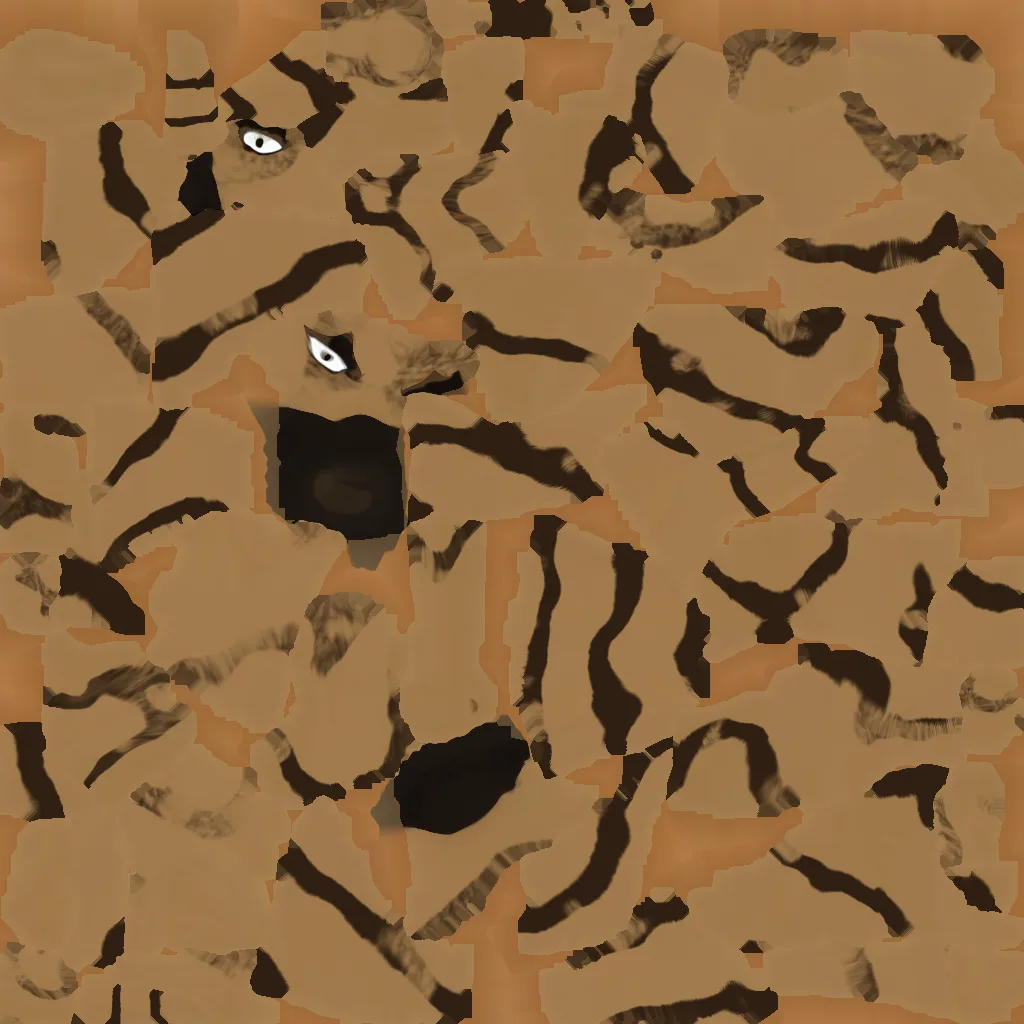
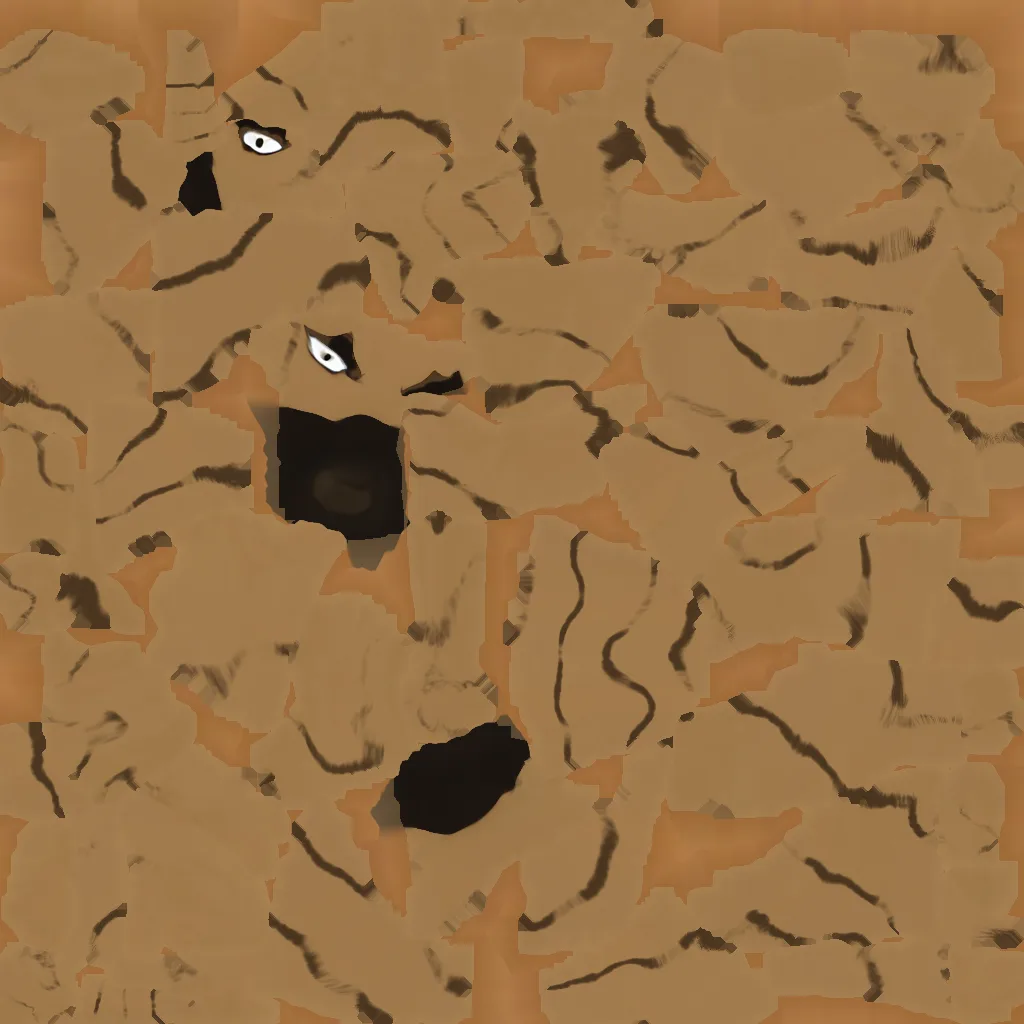
Looks v2: 8 + 8 rigged soldier variants (each a different base and coat)
Claude-Session: https://claude.ai/code/session_016HLENcW9gu6Sv4d15G8kND

diff --git a/weed-game/src/data/looks.js b/weed-game/src/data/looks.js
@@ -67,7 +67,57 @@ export const LOOKS = {
   dane_blue: { base: 'ken_auto', grade: { gradient: ['#25272c', '#5f6570'], chroma: 0.15 }, marks: [
     { type: 'chest', color: '#c9ccd2', w: 0.25, opacity: 0.8 }] },
   dane_brindle: { base: 'ken_auto', grade: { gradient: ['#1a1410', '#a07a4c'] }, marks: [
-    { type: 'stripes', color: '#2a1f17', blend: 'multiply', freq: 46, thick: 0.4, opacity: 0.85, head: 0.2 }] },
+    { type: 'stripes', color: '#2a1f17', blend: 'multiply', freq: 58, thick: 0.22, warp: 4.5, breakup: 0.45, opacity: 0.65, head: 0.2 }] },
+
+  // ======== geneeriset sotilaat: kukin eri pohjasta ja eri värityksellä ========
+  // liittolaiset (japanilaiset pystykorvat ja sekarotuiset)
+  spitz_red_cream: { base: 'gin_auto', grade: { gradient: ['#9c4a26', '#f0e0c6'] } },
+  spitz_black_tan: { base: 'tesshin_auto', grade: { gradient: ['#141211', '#b07a45'] } },
+  kai_red_brindle: { base: 'striped_b_rigged', grade: { gradient: ['#2a1a12', '#9a6a42'] } },
+  spitz_sesame: { base: 'weed_rigged', grade: { gradient: ['#5a4535', '#ece0cd'] } },
+  mutt_cream: { base: 'generic_auto', grade: { gradient: ['#6e5a45', '#e3d6c0'], chroma: 0.3 }, marks: [
+    { type: 'ears', color: '#b08458' }, { type: 'under', color: '#f2ebdf', opacity: 0.8 }] },
+  sighthound_grey: { base: 'rocket_rigged', grade: { gradient: ['#5a5c62', '#ebe8e2'], chroma: 0.3 } },
+  wolf_dark: { base: 'akame_auto', grade: { gradient: ['#1e1d1d', '#545150'], chroma: 0.3 }, marks: [
+    { type: 'under', color: '#8e8a84', opacity: 0.7 }] },
+  spaniel_liver: { base: 'smith_rigged', grade: { gradient: ['#4e2c19', '#f2ece2'] } },
+  // vihollisarmeija (punainen panta lisätään hahmossa)
+  mastiff_dark_brindle: { base: 'tobei_rigged', grade: { gradient: ['#120e0c', '#4e3d2e'] }, marks: [
+    { type: 'stripes', color: '#2a1f17', blend: 'multiply', freq: 52, thick: 0.24, warp: 4.5, breakup: 0.45, opacity: 0.6, head: 0.3 }] },
+  dane_merle: { base: 'hogen_rigged', grade: { gradient: ['#25272d', '#a4a8b0'], chroma: 0.25 }, marks: [
+    { type: 'patches', color: '#6a6e78', blend: 'multiply', scale: 6, r: 0.6, opacity: 0.9 }] },
+  shepherd_black: { base: 'john_auto', grade: { gradient: ['#0e0d0d', '#1f1d1c'] } },
+  mutt_black_white: { base: 'generic_auto', grade: { gradient: ['#121111', '#221f1e'] }, marks: [
+    { type: 'chest', color: '#ebe6dc', w: 0.45 }, { type: 'socks', color: '#ebe6dc', height: 0.12 },
+    { type: 'blaze', color: '#ebe6dc', width: 0.09, from: 0.2 }] },
+  lurcher_red: { base: 'rocket_rigged', grade: { gradient: ['#4a2a18', '#8e5c3c'] } },
+  spitz_dun_spotted: { base: 'tesshin_auto', grade: { gradient: ['#3a3530', '#b8ab98'], chroma: 0.4 } },
+  kai_black_brindle: { base: 'striped_b_rigged', grade: { gradient: ['#121212', '#5c5e60'], chroma: 0.2 } },
+};
+
+// Geneeriset joukkohahmot rigatuilla pohjilla (characters.js lisää nämä uusina hahmoina, galleriaryhmä group).
+const ENEMY_COLLAR = { type: 'collar', color: '#8a1d17' };
+const ally = (model, look, height, breed, bones, x = {}) => ({ name: 'Ōu warrior', kind: 'rigged', model, look, height, bones, breed, group: 'allies',
+  role: 'A warrior of the Ōu pack.', gait: 'trot', speed: 1.05, wag: 0.35, ...x });
+const enemy = (model, look, height, breed, bones, x = {}) => ({ name: 'Army soldier', kind: 'rigged', model, look, height, bones, breed, group: 'enemies',
+  role: 'A soldier of the great army, marked by a red collar.', gait: 'trot', speed: 1.0, wag: 0.05, extras: [ENEMY_COLLAR], ...x });
+export const LOOK_ARMY = {
+  ou_soldier_a: ally('gin_auto', 'spitz_red_cream', 1.05, 'Red Japanese spitz-type'),
+  ou_soldier_b: ally('tesshin_auto', 'spitz_black_tan', 0.98, 'Black-and-tan spitz-type'),
+  ou_soldier_c: ally('striped_b_rigged', 'kai_red_brindle', 1.0, 'Red brindle Kai-type'),
+  ou_soldier_d: ally('weed_rigged', 'spitz_sesame', 0.9, 'Sesame spitz-type', { head: 0.92, legs: 1.08 }),
+  ou_soldier_e: ally('generic_auto', 'mutt_cream', 1.08, 'Cream mixed breed'),
+  ou_soldier_f: ally('rocket_rigged', 'sighthound_grey', 1.15, 'Grey sighthound mix', { head: 0.95 }),
+  ou_soldier_g: ally('akame_auto', 'wolf_dark', 1.12, 'Dark wolf-type', { head: 1.05 }),
+  ou_soldier_h: ally('smith_rigged', 'spaniel_liver', 0.98, 'Liver-and-white spaniel mix'),
+  army_soldier_a: enemy('tobei_rigged', 'mastiff_dark_brindle', 1.3, 'Brindle mastiff-type', undefined, { gait: 'heavy', speed: 0.92 }),
+  army_soldier_b: enemy('hogen_rigged', 'dane_merle', 1.4, 'Merle Great Dane-type', { head: 0.95 }, { gait: 'heavy' }),
+  army_soldier_c: enemy('john_auto', 'shepherd_black', 1.15, 'Black shepherd-type'),
+  army_soldier_d: enemy('ken_auto', 'dane_brindle', 1.3, 'Brindle Dane mix'),
+  army_soldier_e: enemy('generic_auto', 'mutt_black_white', 1.05, 'Black-and-white mixed breed'),
+  army_soldier_f: enemy('rocket_rigged', 'lurcher_red', 1.18, 'Red lurcher-type', { head: 0.95 }, { gait: 'light', speed: 1.15 }),
+  army_soldier_g: enemy('tesshin_auto', 'spitz_dun_spotted', 1.0, 'Spotted dun spitz-type'),
+  army_soldier_h: enemy('striped_b_rigged', 'kai_black_brindle', 1.05, 'Black brindle Kai-type'),
 };
 
 // Hahmot, jotka käyttävät lookia rigatun pohjamallin päällä (aiemmin koiratehtaan hahmoja).

diff --git a/weed-game/src/characters.js b/weed-game/src/characters.js
@@ -273,4 +273,11 @@ export const ROSTER_EXTRA_IDS = [];
     if (!ROSTER.includes(id)) ROSTER.push(id);
   }
 }
+// rigatut joukkovariantit (looks.js LOOK_ARMY): eri pohjamallit ja värimuunnokset
+import { LOOK_ARMY } from './data/looks.js';
+for (const [id, o] of Object.entries(LOOK_ARMY)) {
+  if (CHARACTERS[id] || !MODELS[o.model]) continue;
+  CHARACTERS[id] = { ...o }; GROUP_OF[id] = o.group;
+  ROSTER_EXTRA_IDS.push(id); if (!ROSTER.includes(id)) ROSTER.push(id);
+}
 export { GROUP_OF, GROUP_LABEL };
